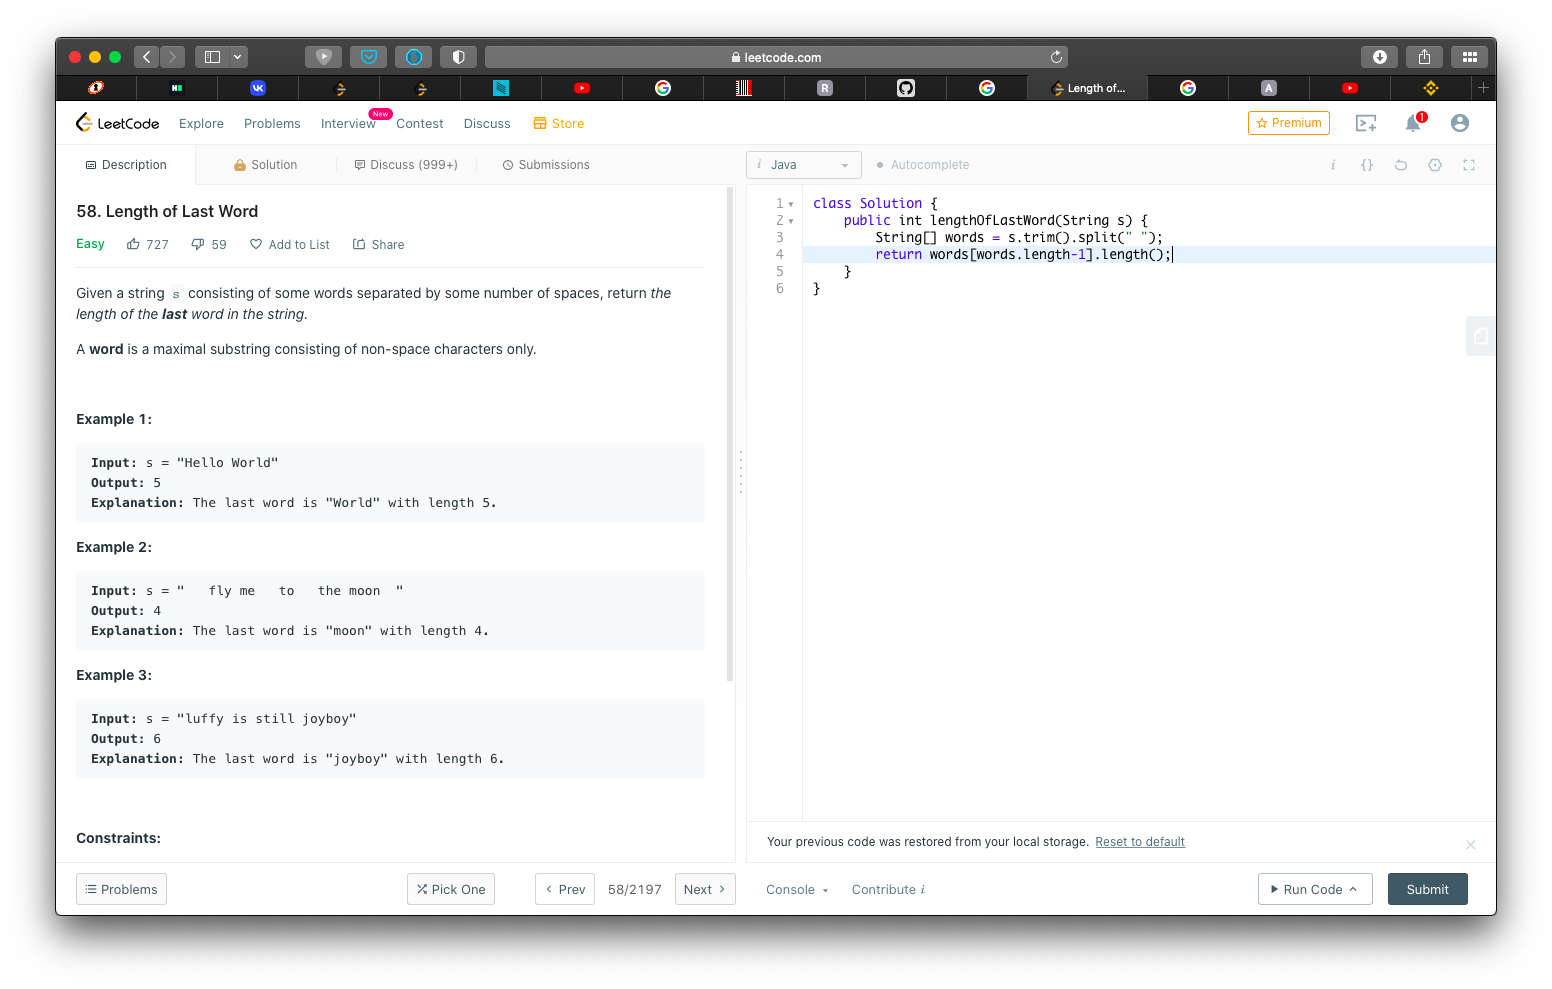
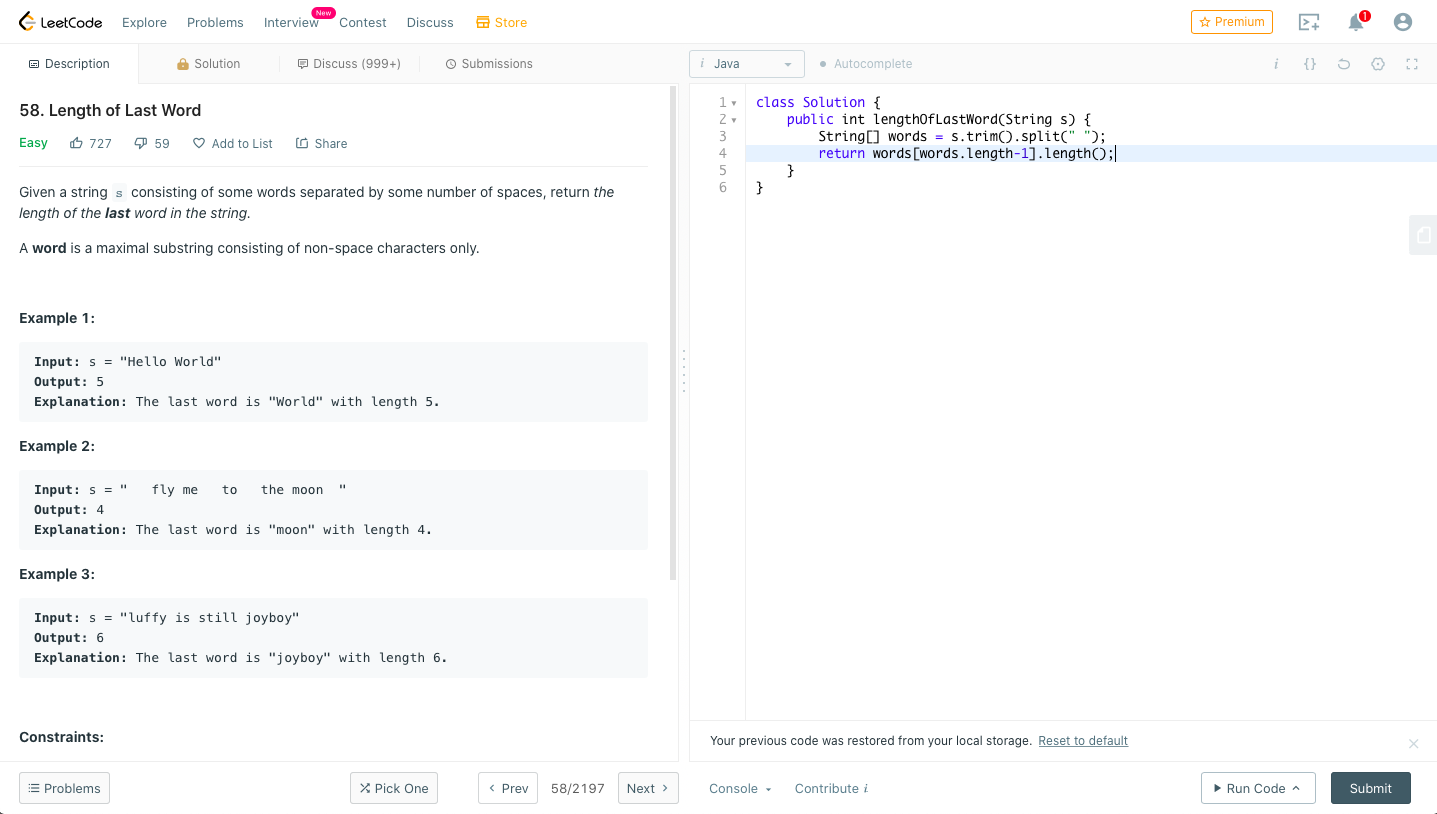
screenshots edited, fibonacci added, sqrt done

Changed region(s): [[0.0, 0.0, 1.0, 1.0], [0.4593, 0.1843, 0.4899, 0.7064], [0.4899, 0.8292, 0.7655, 0.86]]

diff --git a/src/test/java/com/test/fibo/MainTest.java b/src/test/java/com/test/fibo/MainTest.java
@@ -1,0 +1,45 @@
+package com.test.fibo;
+
+import org.testng.annotations.Test;
+
+import static org.testng.Assert.*;
+
+public class MainTest {
+    @Test
+    public void testFiboInputEqualsZero() {
+        assertEquals(Main.fibo(0), 0);
+    }
+
+    @Test
+    public void testFiboInputEqualsOne() {
+        assertEquals(Main.fibo(1), 1);
+    }
+
+    @Test(expectedExceptions = RuntimeException.class)
+    public void testFiboNegativeInput() { Main.fibo(-1); }
+
+    @Test
+    public void testFiboInputEqualsTwo() {
+        assertEquals(Main.fibo(2), 1);
+    }
+
+    @Test
+    public void testFiboInputEqualsFive() {
+        assertEquals(Main.fibo(5), 5);
+    }
+
+    @Test
+    public void testFiboInputEqualsEight() {
+        assertEquals(Main.fibo(8), 21);
+    }
+
+    @Test
+    public void testFiboInputEqualsNine() {
+        assertEquals(Main.fibo(9), 34);
+    }
+
+    @Test
+    public void testFiboInputEqualsTwelve() {
+        assertEquals(Main.fibo(12), 144);
+    }
+}

diff --git a/src/main/java/com/test/fibo/Main.java b/src/main/java/com/test/fibo/Main.java
@@ -1,7 +1,10 @@
 package com.test.fibo;
 
 public class Main {
-    public static int fibo(int n){
+    public static int fibo(int inputNumber){
+        if(inputNumber < 0) { throw new RuntimeException("Positive input only"); }
 
+        if (inputNumber == 0 || inputNumber == 1) { return inputNumber; }
+        return fibo(inputNumber - 1) + fibo(inputNumber - 2);
     }
 }
